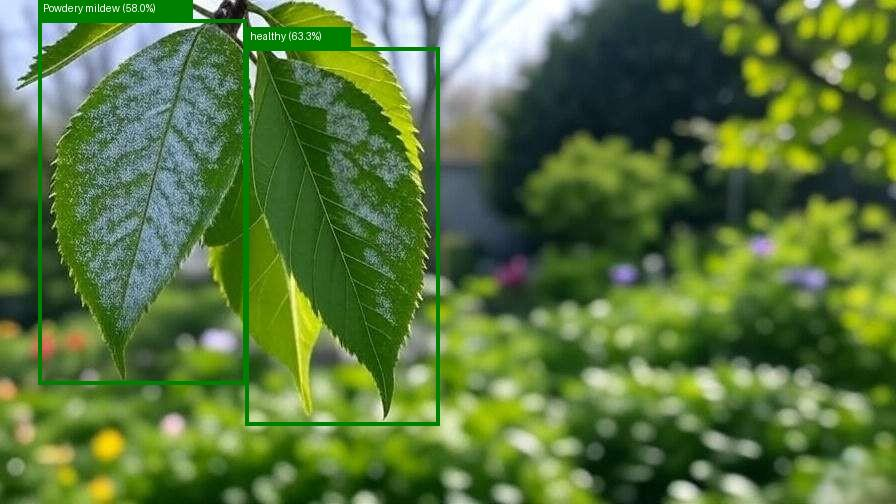
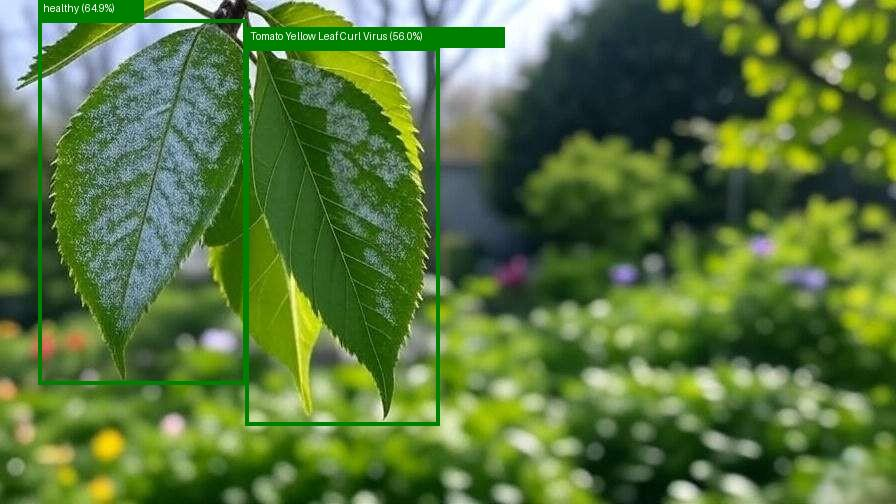
classification/train_realworld

Changed region(s): [[0.2812, 0.0298, 0.5625, 0.119], [0.0312, 0.0, 0.2188, 0.0595]]

diff --git a/scratch/test_screenshot_mapping.py b/scratch/test_screenshot_mapping.py
@@ -1,0 +1,66 @@
+import json
+from pathlib import Path
+
+# Load master mapping and plantdoc mapping
+master_mapping_file = Path("d:/KrishiMitra2/ai_models/disease_detection/outputs/classification/class_mapping.json")
+plantdoc_mapping_file = Path("d:/KrishiMitra2/ai_models/disease_detection/outputs/classification/plantdoc_mapping.json")
+
+with open(master_mapping_file, "r") as f:
+    master_map = json.load(f)
+
+with open(plantdoc_mapping_file, "r") as f:
+    pd_map = json.load(f)
+
+# Also test case & space variations
+for k, v in list(pd_map.items()):
+    pd_map[k.replace(" ", "_")] = v
+    pd_map[k.replace("_", " ")] = v
+    pd_map[k.lower()] = v
+    pd_map[k.replace(" ", "_").lower()] = v
+    pd_map[k.replace("_", " ").lower()] = v
+
+# Folders from screenshot
+folders_in_screenshot = [
+    "Apple leaf",
+    "Apple rust leaf",
+    "Apple Scab Leaf",
+    "Bell_pepper leaf",
+    "Bell_pepper leaf spot",
+    "Blueberry leaf",
+    "Cherry leaf",
+    "Corn Gray leaf spot",
+    "Corn leaf blight",
+    "Corn rust leaf",
+    "grape leaf",
+    "grape leaf black rot",
+    "Peach leaf",
+    "Potato leaf early blight",
+    "Potato leaf late blight",
+    "Raspberry leaf",
+    "Soyabean leaf",
+    "Squash Powdery mildew leaf",
+    "Strawberry leaf",
+    "Tomato Early blight leaf",
+    "Tomato leaf",
+    "Tomato leaf bacterial spot",
+    "Tomato leaf late blight",
+    "Tomato leaf mosaic virus",
+    "Tomato leaf yellow virus",
+    "Tomato mold leaf"
+]
+
+print(f"{'Folder Name in Screenshot':<35} | {'Mapped Master Class Name':<50} | {'Status'}")
+print("-" * 95)
+
+all_matched = True
+for folder in folders_in_screenshot:
+    mapped = pd_map.get(folder, pd_map.get(folder.replace("_", " "), pd_map.get(folder.replace(" ", "_"), None)))
+    if mapped in master_map:
+        print(f"{folder:<35} | {mapped:<50} | ✅ MATCHED (ID {master_map[mapped]})")
+    else:
+        print(f"{folder:<35} | {str(mapped):<50} | ❌ MISMATCH")
+        all_matched = False
+
+print("-" * 95)
+if all_matched:
+    print("ALL 26 FOLDERS IN SCREENSHOT ARE 100% MATCHED TO MASTER CLASSES!")

diff --git a/classification/train_realworld.py b/classification/train_realworld.py
@@ -151,14 +151,24 @@ def main() -> None:
     # 3. Build model and move to device
     model = DiseaseClassifier(config)
     
-    # Load Stage 1 PlantVillage pre-trained weights if available
-    pretrained_file = Path(args.pretrained_path)
-    if pretrained_file.exists():
+    # Load pre-trained weights (prioritize previous realworld checkpoint, fallback to base checkpoint)
+    realworld_checkpoint = Path("saved_models/efficientnet_b0_realworld.pt")
+    base_checkpoint = Path(args.pretrained_path)
+
+    if realworld_checkpoint.exists():
+        pretrained_file = realworld_checkpoint
+        logger.info(f"Loading existing real-world fine-tuned weights from: {pretrained_file}")
+    elif base_checkpoint.exists():
+        pretrained_file = base_checkpoint
         logger.info(f"Loading pre-trained PlantVillage weights from: {pretrained_file}")
+    else:
+        pretrained_file = None
+
+    if pretrained_file and pretrained_file.exists():
         state_dict = torch.load(pretrained_file, map_location=config.DEVICE)
         model.load_state_dict(state_dict)
     else:
-        logger.info(f"Pre-trained weights file '{pretrained_file}' not found. Initializing from ImageNet backbone.")
+        logger.info("No pre-trained weights file found. Initializing from ImageNet backbone.")
 
     model.to(config.DEVICE)
 

diff --git a/__init__.py b/__init__.py
@@ -1,0 +1,3 @@
+"""
+KrishiMitra Crop Disease Detection AI Package
+"""
